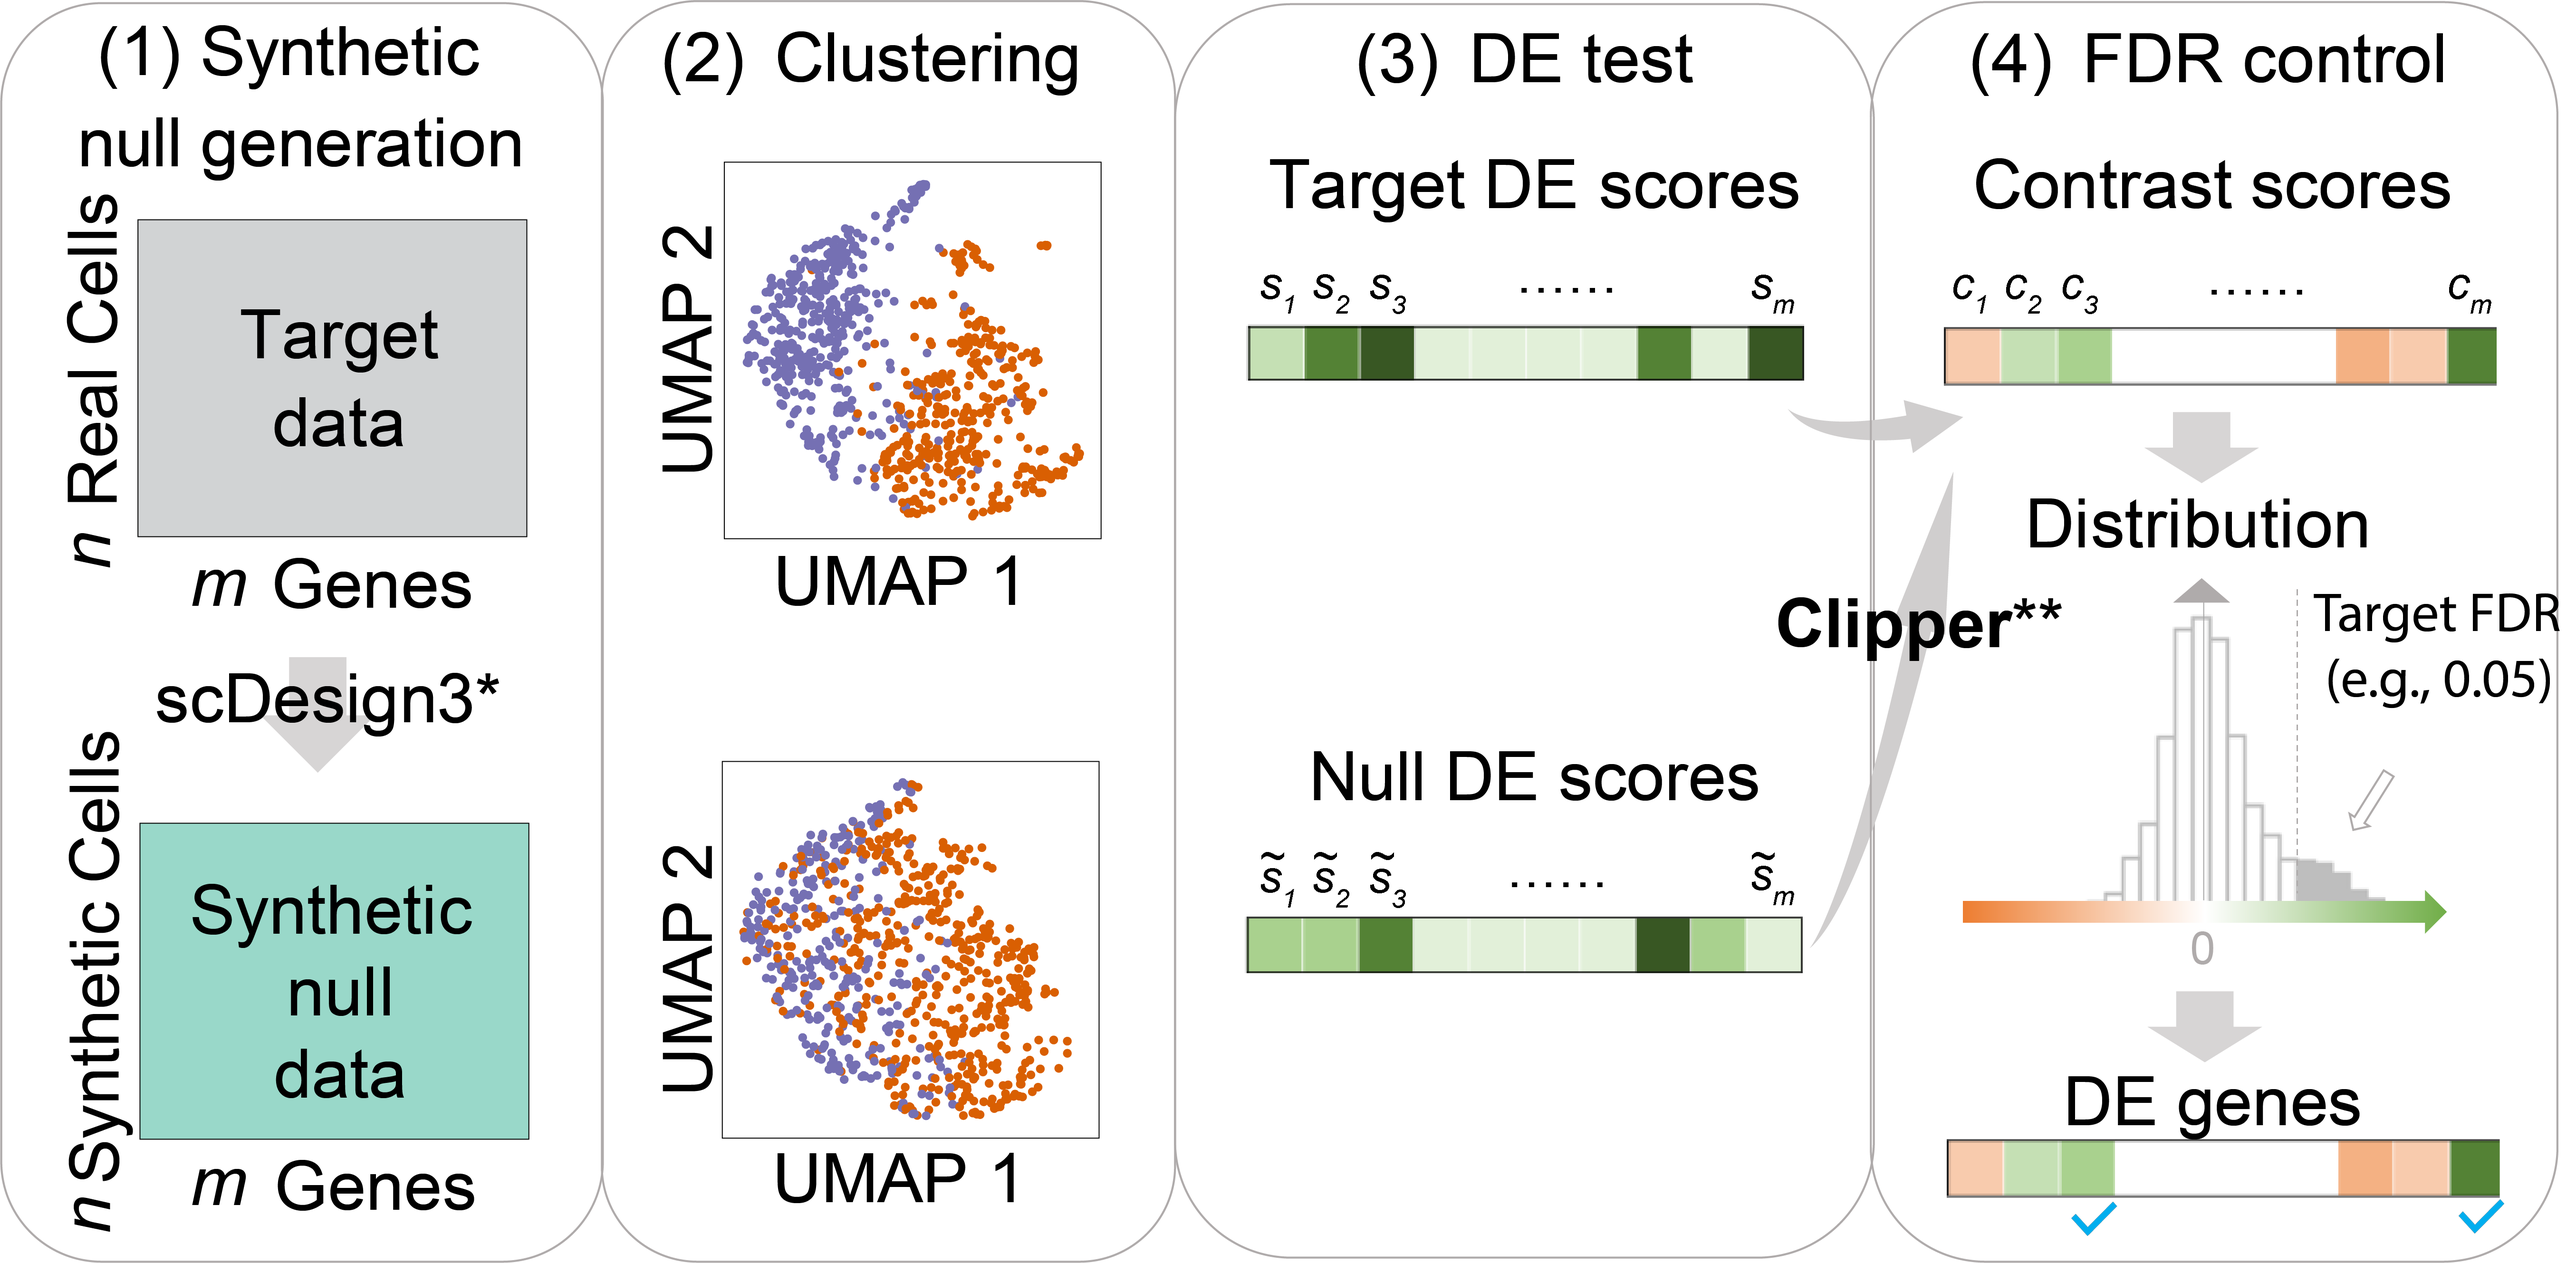
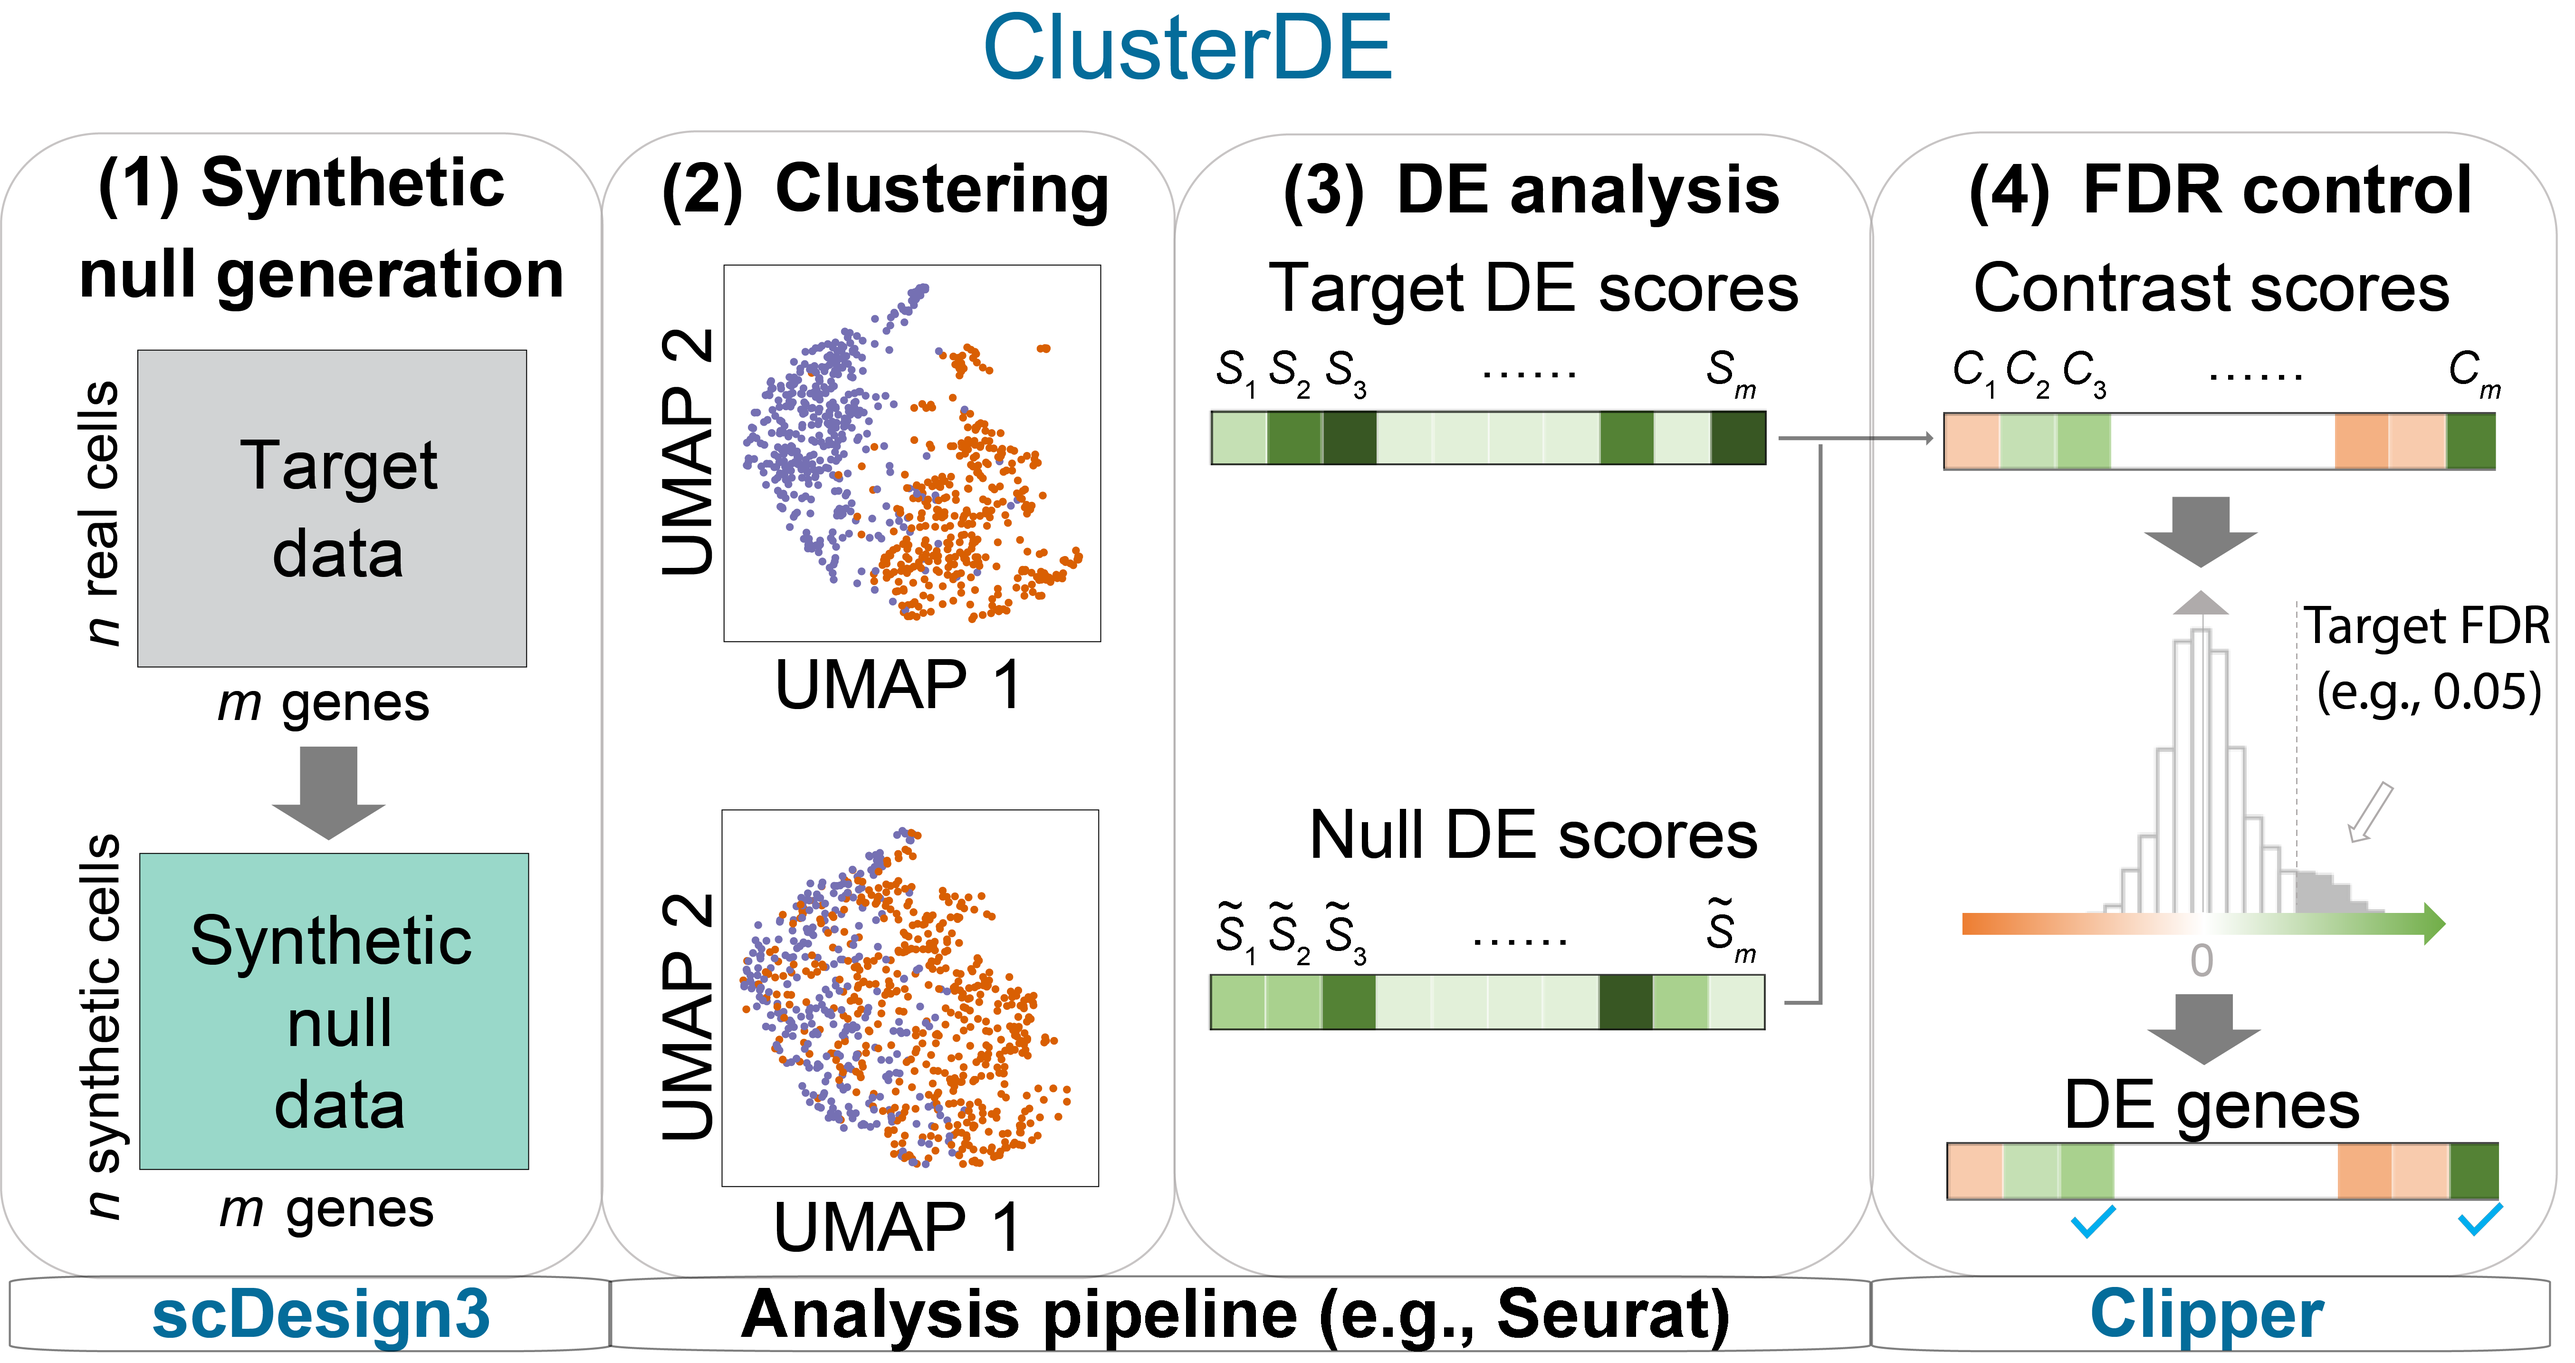
Add new figure

diff --git a/README.md b/README.md
@@ -2,12 +2,12 @@
 
 ------------------------------------------------------------------------
 
-The R package **ClusterDE** is a post-clustering DE method for controlling the false discovery rate (FDR) of identified DE genes regardless of clustering quality. The core idea of ClusterDE is to generate real-data-based synthetic null data with only one cluster, as a counterfactual in contrast to the real data, for evaluating the whole procedure of clustering followed by a DE test. <span style="color:blue"> **Detailed tutorials that illustrate various functionalities of ClusterDE are available at this [website](https://songdongyuan1994.github.io/ClusterDE/docs/index.html)**</span>. The following illustration figure summarizes the usage of ClusterDE:
+The R package **ClusterDE** is a post-clustering DE method for controlling the false discovery rate (FDR) of identified DE genes regardless of clustering quality. The core idea of ClusterDE is to generate real-data-based synthetic null data with only one cluster, as contrast to the real data, for evaluating the whole procedure of clustering followed by a DE test. <span style="color:blue"> **Detailed tutorials that illustrate various functionalities of ClusterDE are available at this [website](https://songdongyuan1994.github.io/ClusterDE/docs/index.html)**</span>. The following illustration figure summarizes the usage of ClusterDE:
 
 <img src="man/figures/ClusterDE_illustration.png" width="600"/>
 
 
-To find out more details about **ClusterDE**, you can check out our manuscript on bioRxiv.
+Instead of a new pipeline, ClusterDE actually works as an add-on to popular pipelines such as Seurat. To find out more details about **ClusterDE**, you can check out our manuscript on bioRxiv.
 
 ## Installation<a name="installation-"></a>
 
@@ -20,7 +20,7 @@ devtools::install_github("SONGDONGYUAN1994/scDesign3")
 devtools::install_github("SONGDONGYUAN1994/ClusterDE")
 ```
 
-Please note that ClusterDE is actually a wrapper of **scDesign3**. Therefore, you can also directly use scDesign3 to generate the synthetic null data. To better understand scDesign3, you can check out our manuscript on Nature Biotechnology:
+Please note that ClusterDE is actually a wrapper of **scDesign3**. Therefore, you can also directly use scDesign3 to "design" your own synthetic null data. To better understand scDesign3, you can check out our manuscript on Nature Biotechnology:
 
 [Song, D., Wang, Q., Yan, G. et al. scDesign3 generates realistic in silico data for multimodal single-cell and spatial omics. <em>Nat Biotechnol</em> (2023).](https://www.nature.com/articles/s41587-023-01772-1)
 
@@ -46,6 +46,10 @@ The parameters of `constructNull()` are:
 - `BPPARAM`: A MulticoreParam object or NULL. When the parameter parallelization = 'mcmapply' or 'pbmcmapply', this parameter must be NULL. When the parameter parallelization = 'bpmapply', this parameter must be one of the MulticoreParam object offered by the package 'BiocParallel'. The default value is NULL.
 
 The output of `constructNull()` is the new gene by cell matrix in the same format as your input.
+
+The following figure briefly describes how ClusterDE generates the synthetic null data:
+
+<img src="man/figures/ClusterDE_supp_null_generation.png" width="800"/>
 
 After obtaining the synthetic null data, you should *perform the same clustering procedure as you have done on your real data* to get the DE p-values (`nullPvalues`). Finally, we compare the p-values from the null and p-values from the target data (real data) by `callDE()`. For illustration, here we use the Uniform random numbers as the p-values.
 
